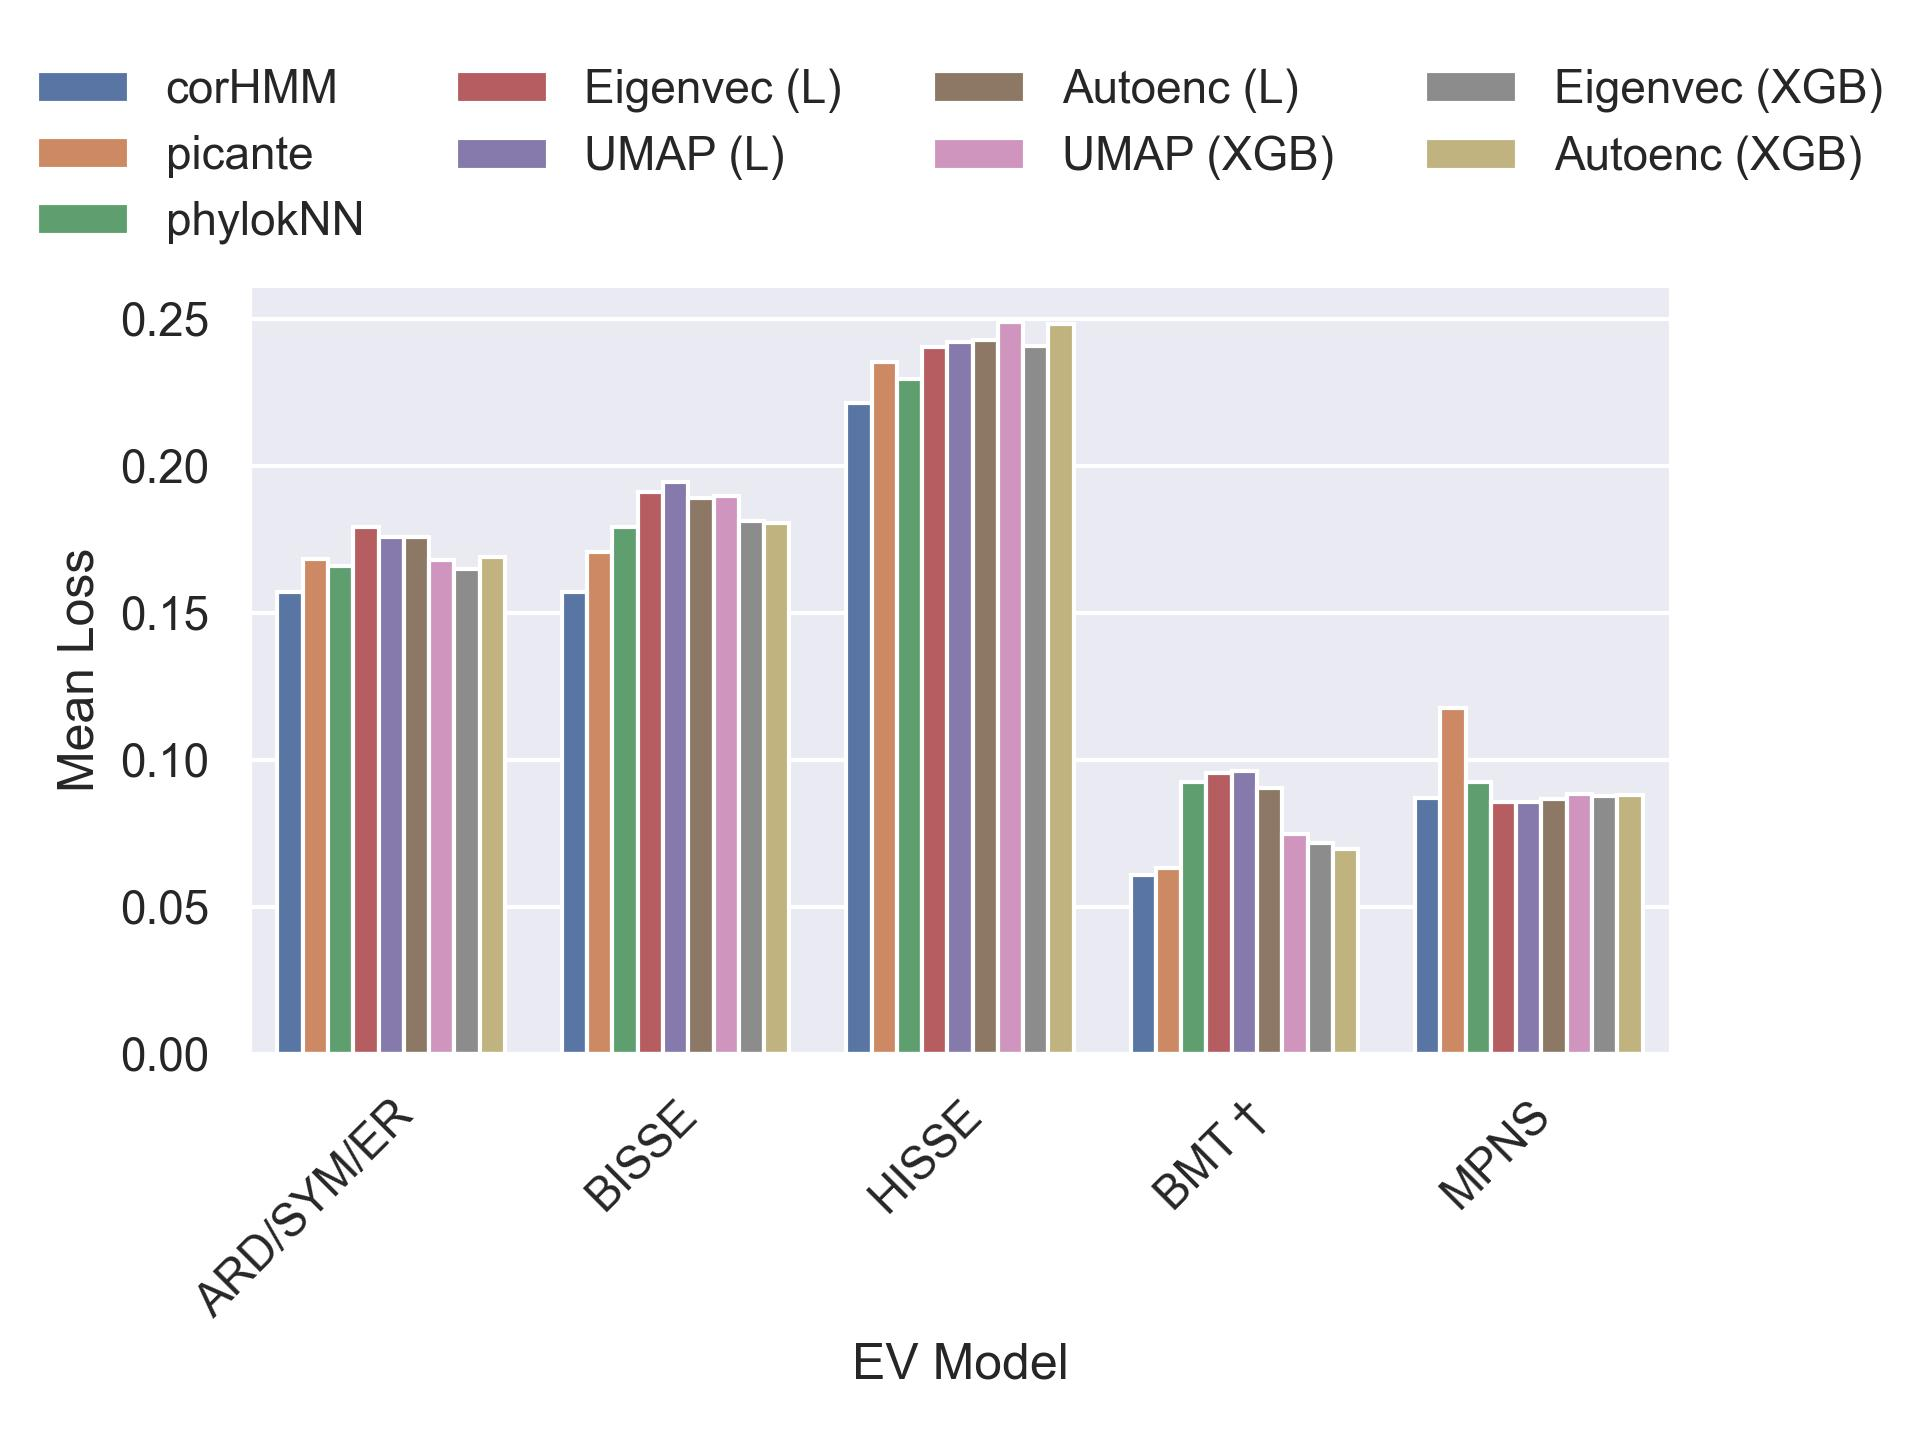
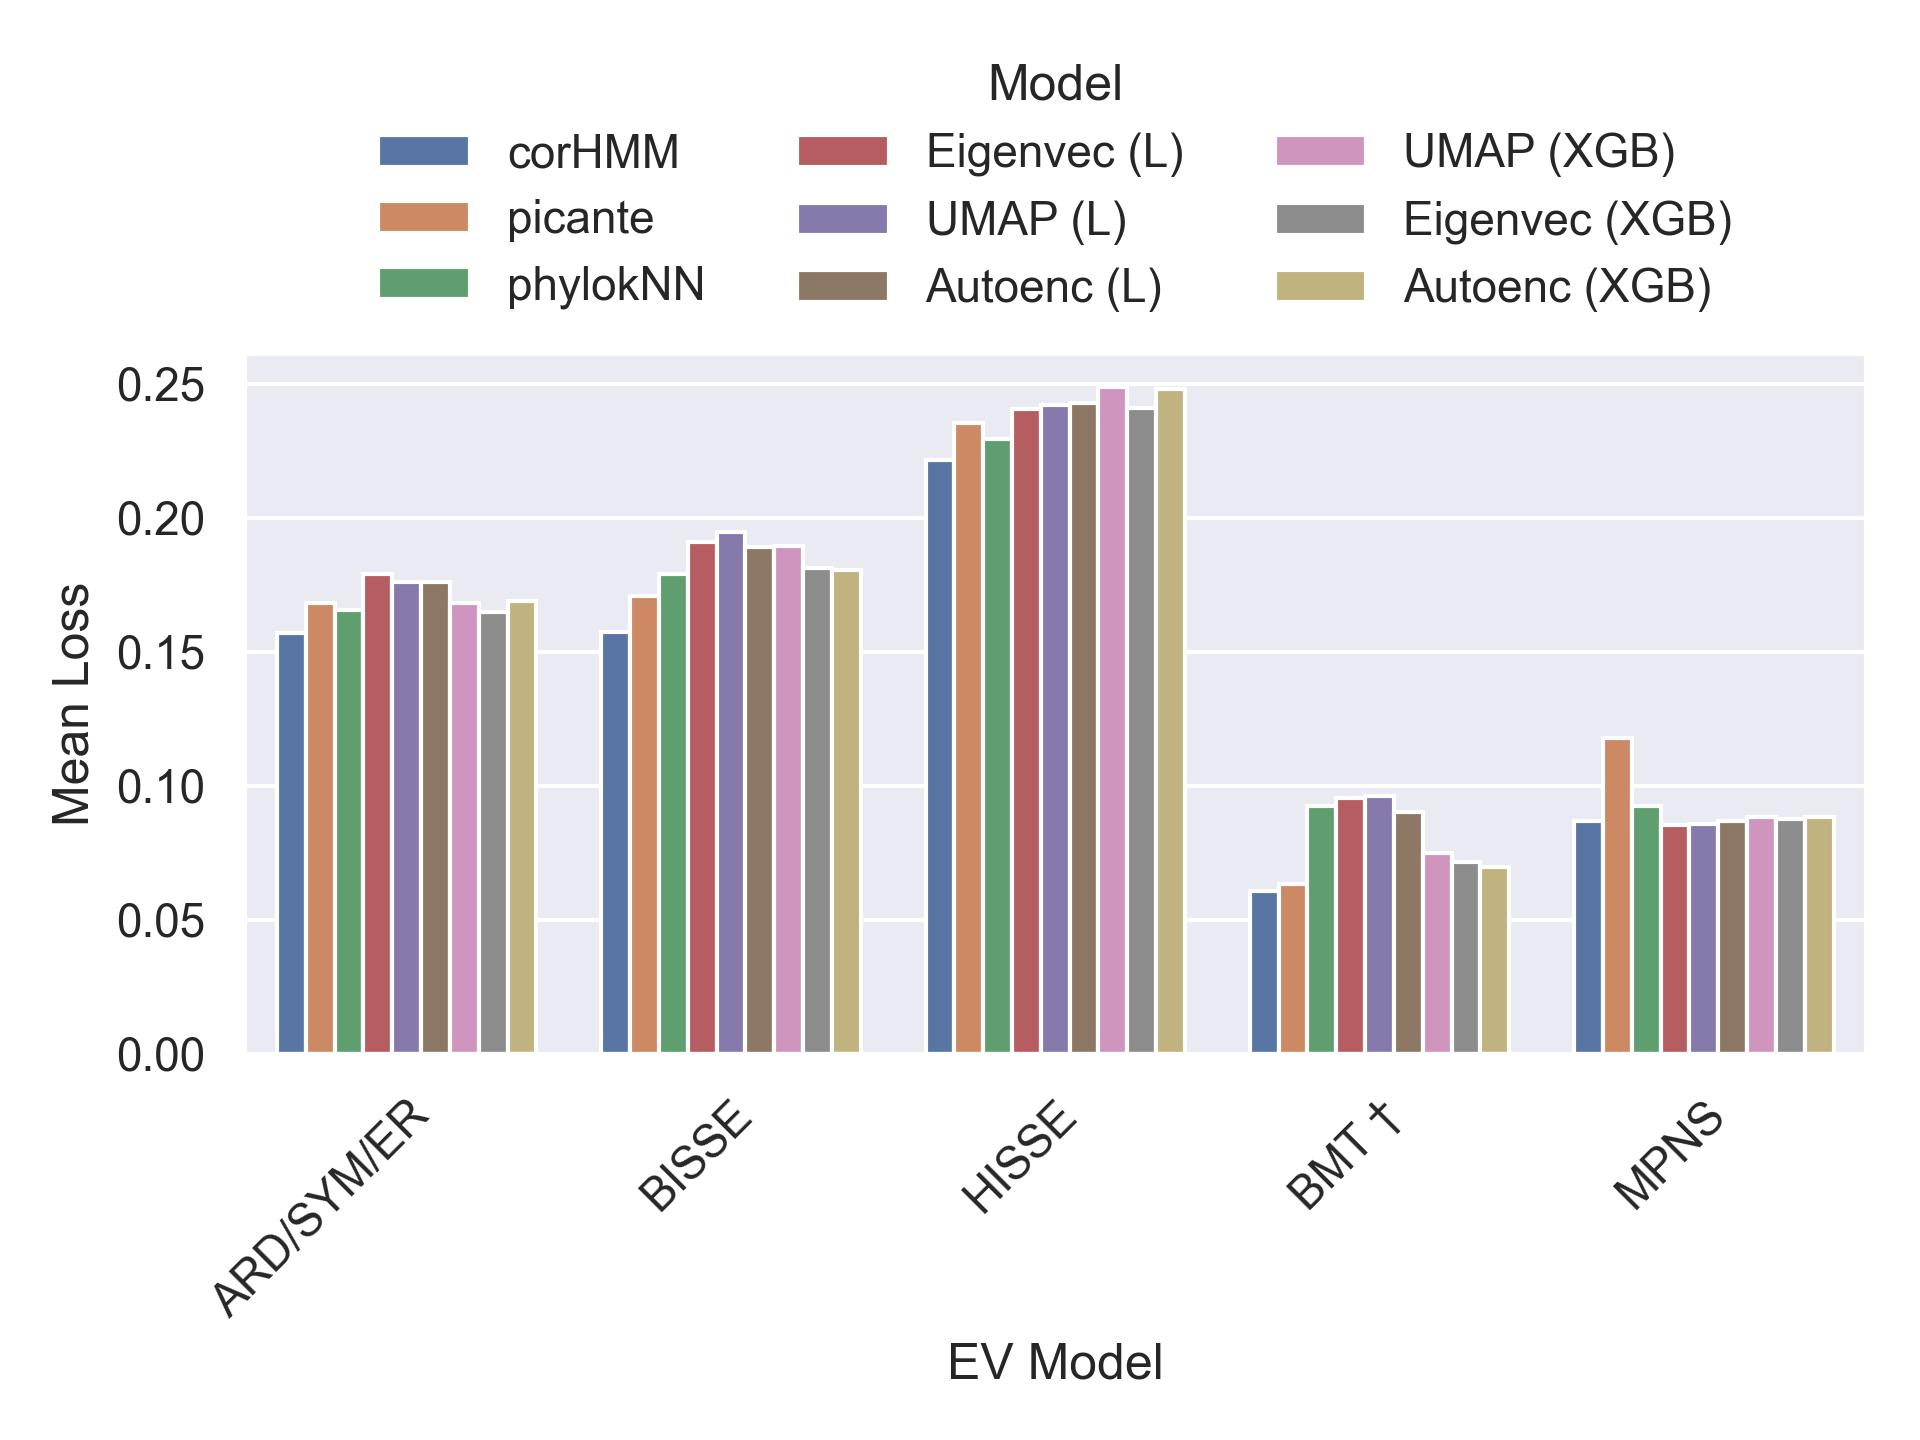
Fix plots again :)

diff --git a/analysis/evaluation/compare_different_ev_models.py b/analysis/evaluation/compare_different_ev_models.py
@@ -98,7 +98,7 @@ def plot_binary_and_continuous_cases(bin_df, cont_df, out_dir):
     g.set_xticklabels(g.get_xticklabels(), rotation=45, ha='right', rotation_mode='anchor')
     sns.move_legend(
         g, "lower center",
-        bbox_to_anchor=(.5, 1), ncol=4, title=None, frameon=False,
+        bbox_to_anchor=(.5, 1), ncol=3, title='Model', frameon=False,
     )
     plt.tight_layout()
     plt.savefig(os.path.join(out_dir, 'binary_means2.jpg'), dpi=300)
@@ -128,7 +128,7 @@ def plot_binary_and_continuous_cases(bin_df, cont_df, out_dir):
     g.set_xticklabels(g.get_xticklabels(), rotation=45, ha='right', rotation_mode='anchor')
     sns.move_legend(
         g, "lower center",
-        bbox_to_anchor=(.5, 1), ncol=4, title=None, frameon=False,
+        bbox_to_anchor=(.5, 1), ncol=3, title='Model', frameon=False,
     )
 
     plt.tight_layout()
